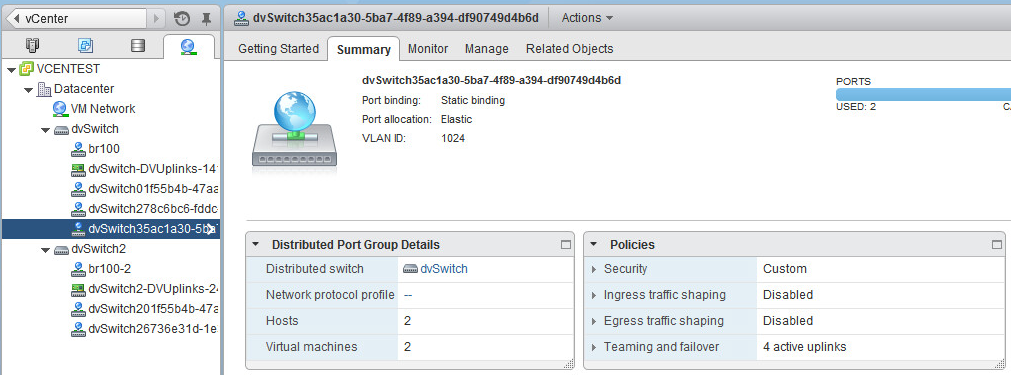
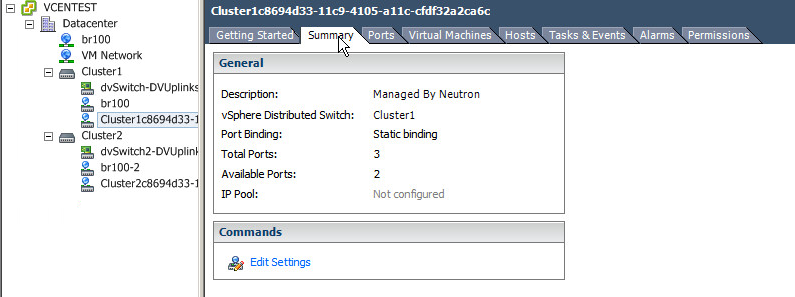
Add convention for name of dvSwitch
There is the feature 'add compute-vmware nodes' which provides
extending an environment after deployment by add new compute-vmware
node and assign new Cluster to it. This feature causes the trouble,
because despite we can add new Cluster on VMware tab we can't set
cluster-to-dvSwitch mapping on plugins UI settings.

Instead that we introduce new convention for names. A name of dvSwitch
that assigned to a Cluster should be the same as name of that Cluster.

Closes-bug: #1564795

diff --git a/deployment_scripts/puppet/modules/vmware_dvs/lib/puppet/parser/functions/get_agents_data.rb b/deployment_scripts/puppet/modules/vmware_dvs/lib/puppet/parser/functions/get_agents_data.rb
@@ -7,7 +7,6 @@
     raise(Puppet::ParseError, 'Shoud have 5 arguments!') if args.size < 4 or args[0] == ""
     vcenter = args[0]['computes']
     physnet = args[1]["predefined_networks"]["admin_internal_net"]["L2"]["physnet"]
-    netmaps = args[2]["vmware_dvs_net_maps"]
     use_fw_driver = args[2]["vmware_dvs_fw_driver"]
     current_node = args[3].split(".")[0]
     controllersp = args[4].any? {|role| role.include?("controller")}
@@ -21,12 +20,7 @@
         agent["vsphere_login"] = vc["vc_user"]
         agent["vsphere_password"] = vc["vc_password"]
         cluster = vc["vc_cluster"]
-        if netmaps.include? ':'
-          vds = netmaps.delete(' ').split(";").collect{|k| k.split(":")}.select{|x| x[0] == cluster}.collect{|x| x[1]}[0]
-        else
-          vds = netmaps
-        end
-        agent["network_maps"] = physnet + ":" + vds
+        agent["network_maps"] = physnet + ":" + cluster
         agent["use_fw_driver"] = use_fw_driver
         agent["ha_enabled"] = controllersp
         agent["primary"] = primaryp

diff --git a/specs/fuel-plugin-vmware-dvs.rst b/specs/fuel-plugin-vmware-dvs.rst
@@ -1,6 +1,14 @@
+..
+ This work is licensed under a Creative Commons Attribution 3.0 Unported
+ License.
+
+ http://creativecommons.org/licenses/by/3.0/legalcode
+
 =============================================
 Fuel plugin for Neutron ML2 vmware_dvs driver
 =============================================
+
+https://blueprints.launchpad.net/fuel-plugin-vmware-dvs/+spec/agentful-spec
 
 There is the Fuel plugin which provides Neutron for networking on
 VMware-related MOS environments.
@@ -120,7 +128,7 @@ Assumptions:
      VDS (must be the same for tenant network regardless which switch type OVS
      or VDS)
 
-  #. Each vSphere's Cluster has its own VDS.
+  #. Each vSphere's Cluster has its own VDS with same (as that cluster) name.
 
   #. There must be an ability to:
 
@@ -151,15 +159,13 @@ Use other solution for Neutron and VMware.
 Data model impact
 -----------------
 
-There are serveral changes will appears on the other subtab of Networks tab:
+There are serveral changes will appears on the "Other" subtab of Networks tab:
 
   #. checkbox "Neutron VMware DVS ML2 plugin".
 
   #. radiobutton with plugin's version
 
   #. checkbox "Use the VMware DVS firewall driver"
-
-  #. input field for specification the cluster to VDS mapping.
 
 REST API impact
 ---------------

diff --git a/docs/install_guide/configure.rst b/docs/install_guide/configure.rst
@@ -37,7 +37,7 @@ Create and Configure an environment with VMware DVS plugin
    .. image:: _static/nodes-vmware.png
 
 #. Open the *Networks* tab of the Fuel Web UI and chose the *Other* subtab. Select the
-   *Neutron VMware DVS ML2 plugin* checkbox and specify the Cluster to VDS mapping :
+   *Neutron VMware DVS ML2 plugin* checkbox
 
    .. image:: _static/settings.png
 

diff --git a/docs/install_guide/limitations.rst b/docs/install_guide/limitations.rst
@@ -1,6 +1,9 @@
 Limitations
 +++++++++++
 
--  Only VLANs are supported for tenant network separation.
+- Only VLANs are supported for tenant network separation.
 
--  Only vSphere 5.5 & 6.0 are supported.
+- Only vSphere 5.5 & 6.0 are supported.
+
+- Each vSphere Cluster shoud be connected with individual dvSwitch with same
+  name as that Cluster.

diff --git a/docs/install_guide/troubleshooting.rst b/docs/install_guide/troubleshooting.rst
@@ -25,6 +25,7 @@ plugin.ini::
   vsphere_password=<vsphere_password>
 
 vmware_dvs-<vcenter AZ>-<service name>.ini::
+
   [DEFAULT]
   host=<vcenter AZ>-<service name>
 
